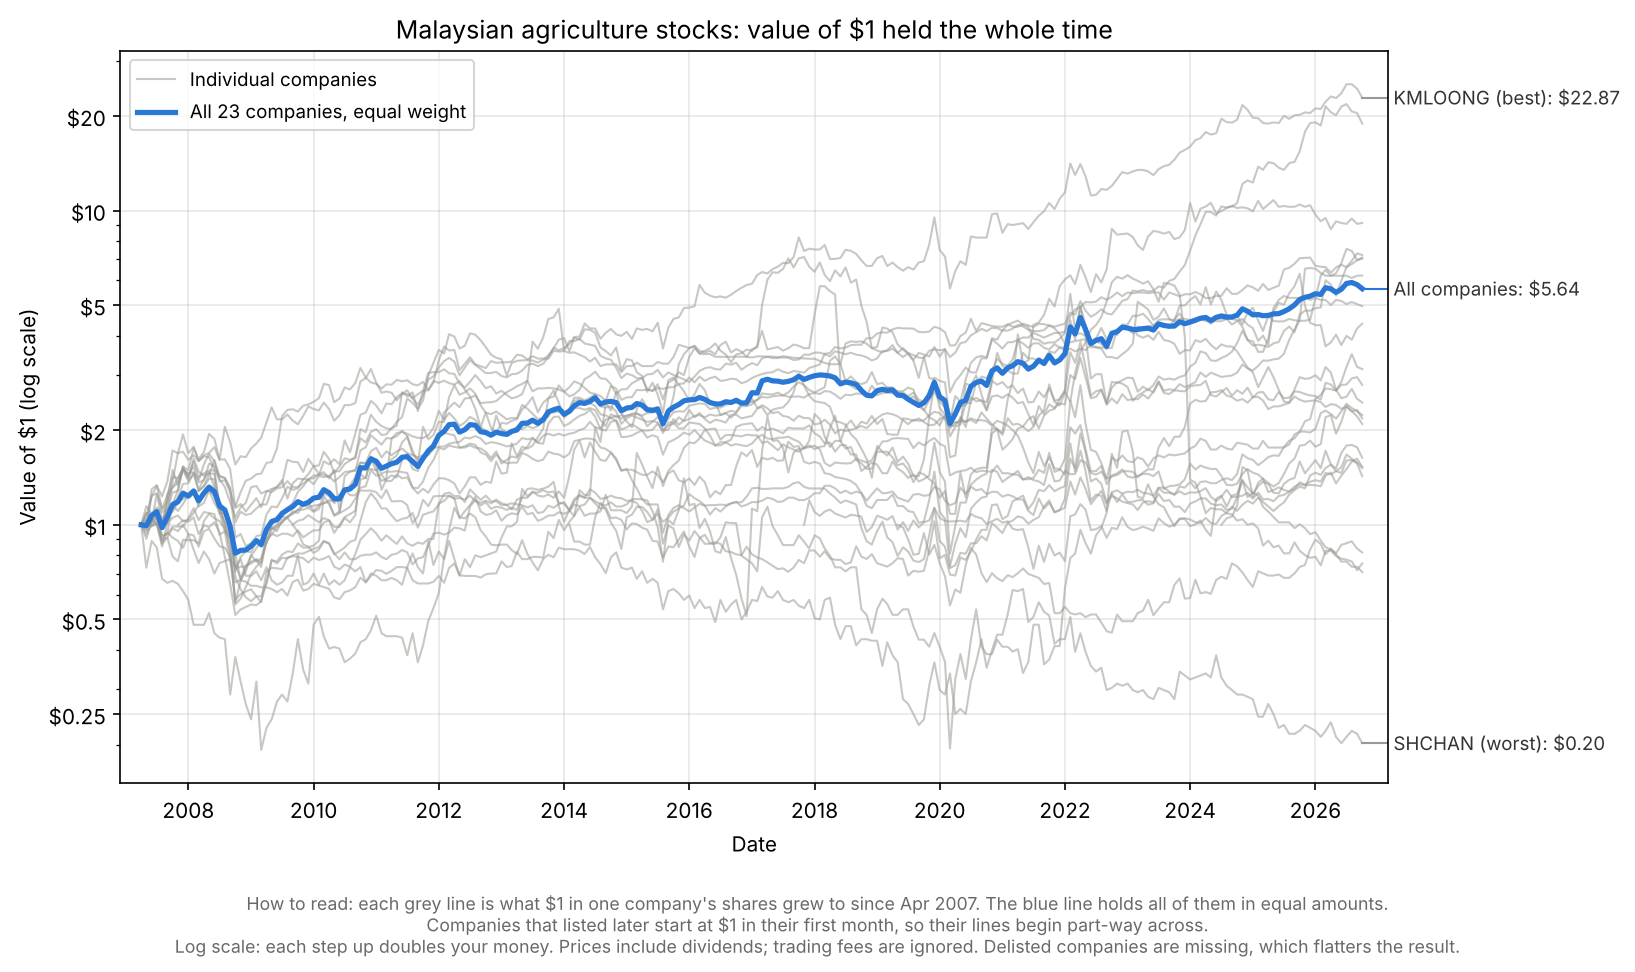
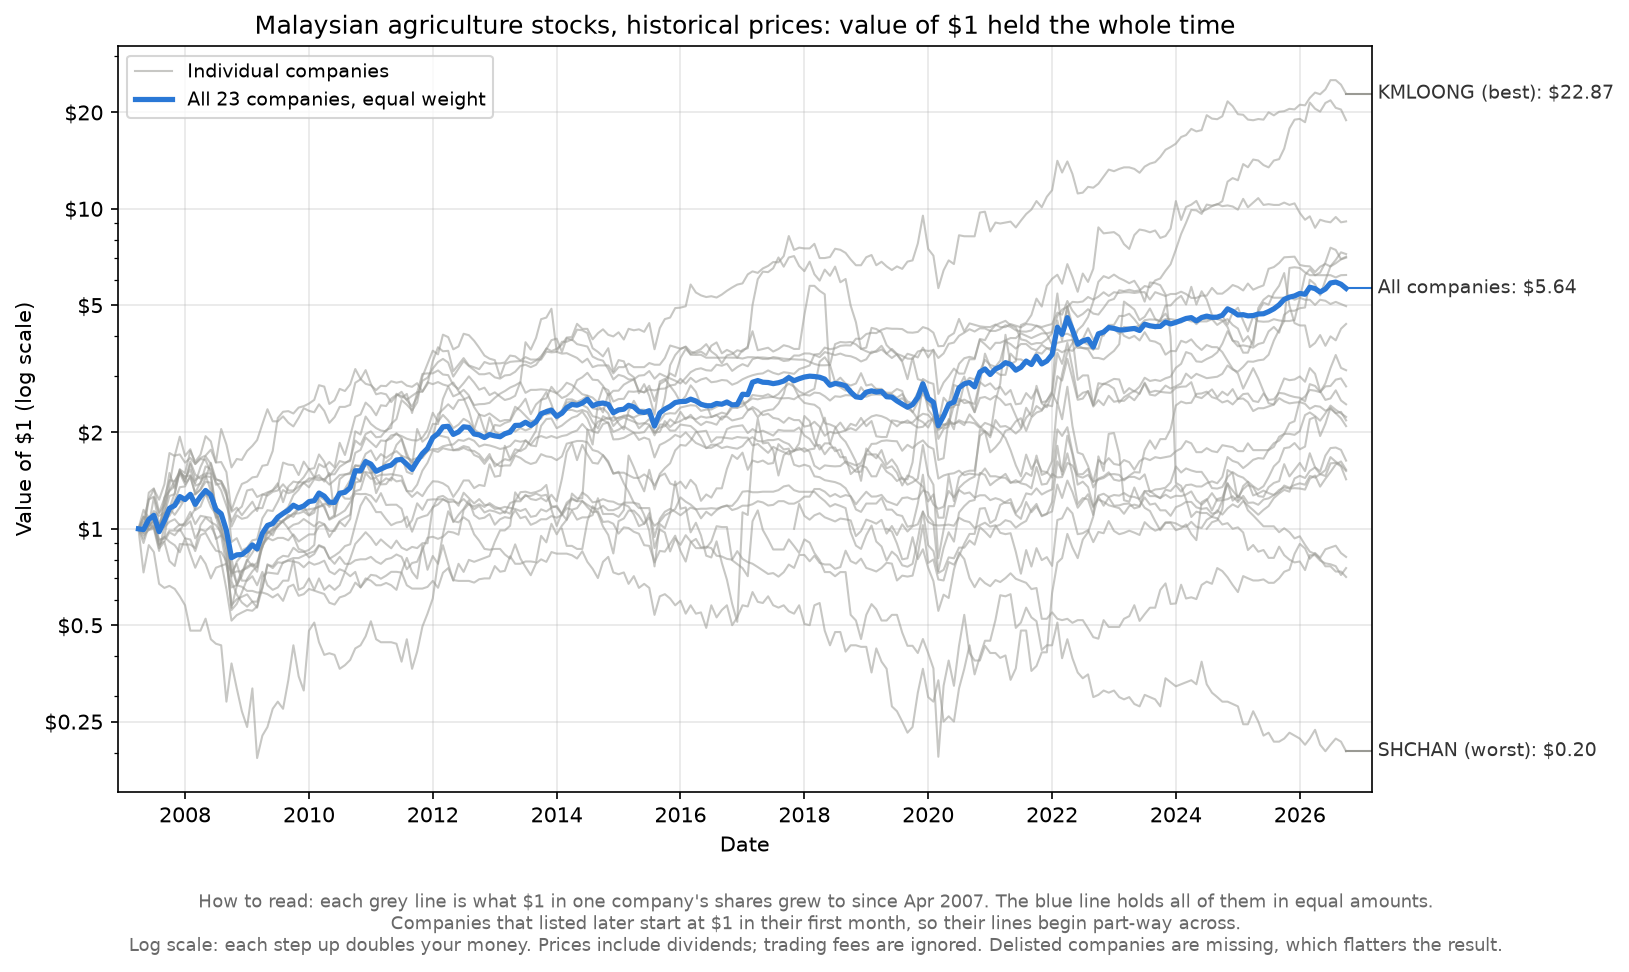
renamed command

diff --git a/data/stocks_growth.py b/data/stocks_growth.py
@@ -1,10 +1,11 @@
-"""Stocks-only backtest: what $1 in each company's shares grew to, as a chart.
+"""Historical stock data chart: what $1 in each company's shares grew to.
 
-Run:  docker compose run --rm stocks backtest
+Run:  docker compose run --rm stocks historicalChart
 
-No soil analysis and no palm oil signal: this just holds every traded company
-from trading/malaysia_agriculture_companies.csv and saves
-images/results/stocks.png.
+This is not a backtest. No trading rule, soil analysis or palm oil signal is
+applied: it shows how every traded company from
+trading/malaysia_agriculture_companies.csv did when simply held, and saves
+images/results/stocks.png. Use it as the baseline for the two backtest charts.
 
 Needs the price history from:  docker compose run --rm stock history
 """
@@ -90,7 +91,7 @@ def main():
         ax.text(label_x, y, f" {name}: ${value:,.2f}", va="center", ha="left", fontsize=9, color=INK,
                 clip_on=False)
 
-    ax.set_title("Malaysian agriculture stocks: value of $1 held the whole time")
+    ax.set_title("Malaysian agriculture stocks, historical prices: value of $1 held the whole time")
     ax.set_ylabel("Value of $1 (log scale)")
     ax.set_xlabel("Date")
     ax.legend(loc="upper left", fontsize=9)
@@ -111,7 +112,7 @@ def main():
     fig.savefig(CHART_FILE, dpi=150, bbox_inches="tight")
     plt.close(fig)
 
-    print(f"Stocks-only backtest: {len(growth)} companies held from {start_label} "
+    print(f"Historical stock data (no trading rule): {len(growth)} companies held from {start_label} "
           f"to {last_date.strftime('%b %Y')}.")
     print(f"$1 spread equally across all of them grew to ${average.iloc[-1]:,.2f}. "
           f"Best: {best} (${finals[best]:,.2f}). Worst: {worst} (${finals[worst]:,.2f}).")

diff --git a/README.md b/README.md
@@ -28,28 +28,30 @@ docker compose run --rm soil prices                                  # live pric
 
 Download History before back testing
 docker compose run --rm stock history                                # download monthly price history for every company
+docker compose run --rm stocks historicalChart                       # chart of that history, each company simply held (not a backtest); saves images/results/stocks.png
 
 Backtesting
 docker compose run --rm stockFutures backtest                        # soil match on images/soil/soil.jpg, then backtest those companies and save the chart
 docker compose run --rm stockFutures backtest images/soil/mysoil.jpg # the same, for your own image
 docker compose run --rm futures backtest                             # palm oil only (data/main.py), no soil analysis; saves images/results/futures.png
-docker compose run --rm stocks backtest                              # stocks only, no soil analysis or palm oil signal; saves images/results/stocks.png
 
 ```
 
 `soil`, `stock`, `stockFutures`, `futures` and `stocks` are five names for the same container (see `compose.yaml`),
 so each command says what it works on. They share one image, which is built once. `backtest` does something
-different for each name:
+different for the two names that have it:
 
 - `stockFutures backtest`: soil match, then the matched companies tested against the palm oil signal.
 - `futures backtest`: the palm oil signal on its own (`data/main.py`).
-- `stocks backtest`: every company's shares held the whole time (`data/stocks_growth.py`). It only saves a chart.
+
+`stocks historicalChart` is not a backtest. It charts every company's shares held the whole time
+(`data/stocks_growth.py`), with no trading rule, as a baseline for the two backtest charts.
 
 Images are kept in two folders:
 
 - `images/soil/` holds the soil photos to analyze. `soil.jpg` is the default.
 - `images/results/` holds the charts the scripts save: `stockFutures.png` from `stockFutures backtest`,
-  `futures.png` from `futures backtest`, and `stocks.png` from `stocks backtest`.
+  `futures.png` from `futures backtest`, and `stocks.png` from `stocks historicalChart`.
 
 To analyze your own image, put it inside the project folder first (for example in `images/soil/`). The container can only see files in this folder.
 
